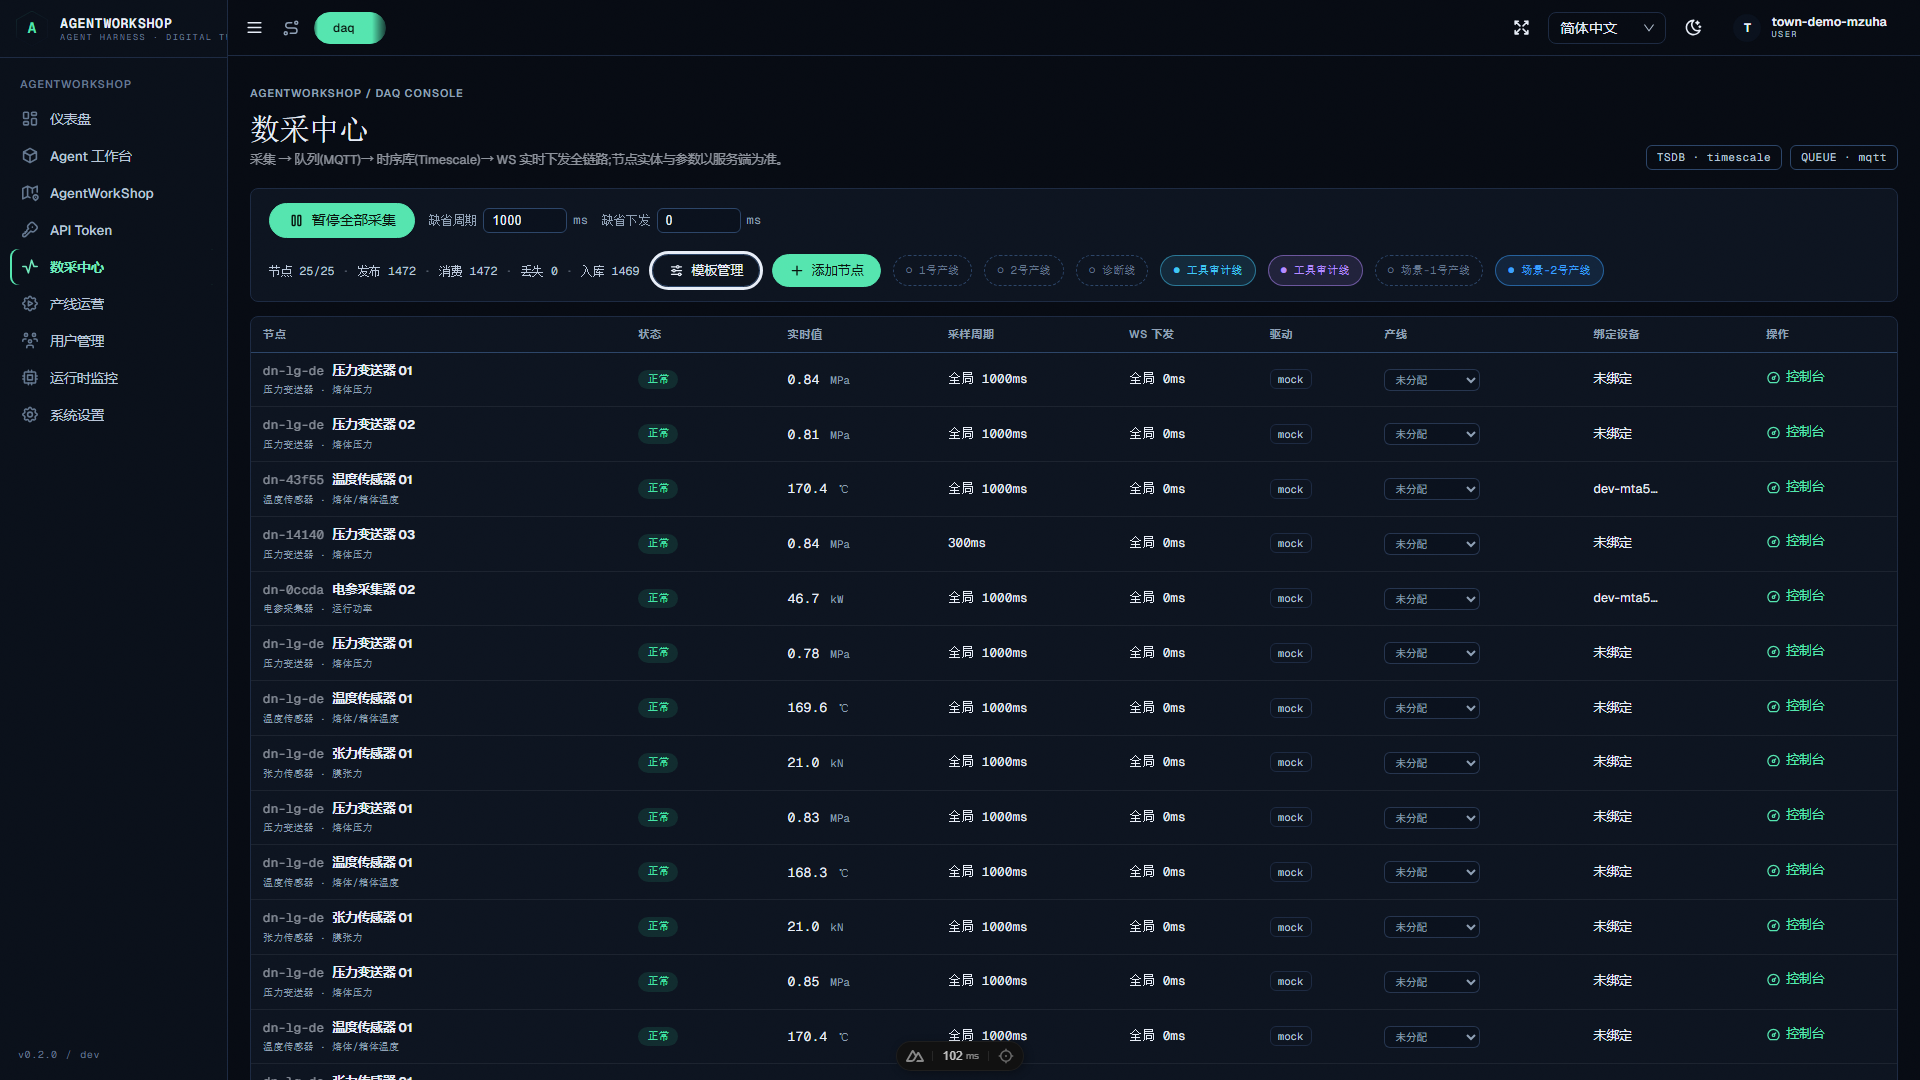
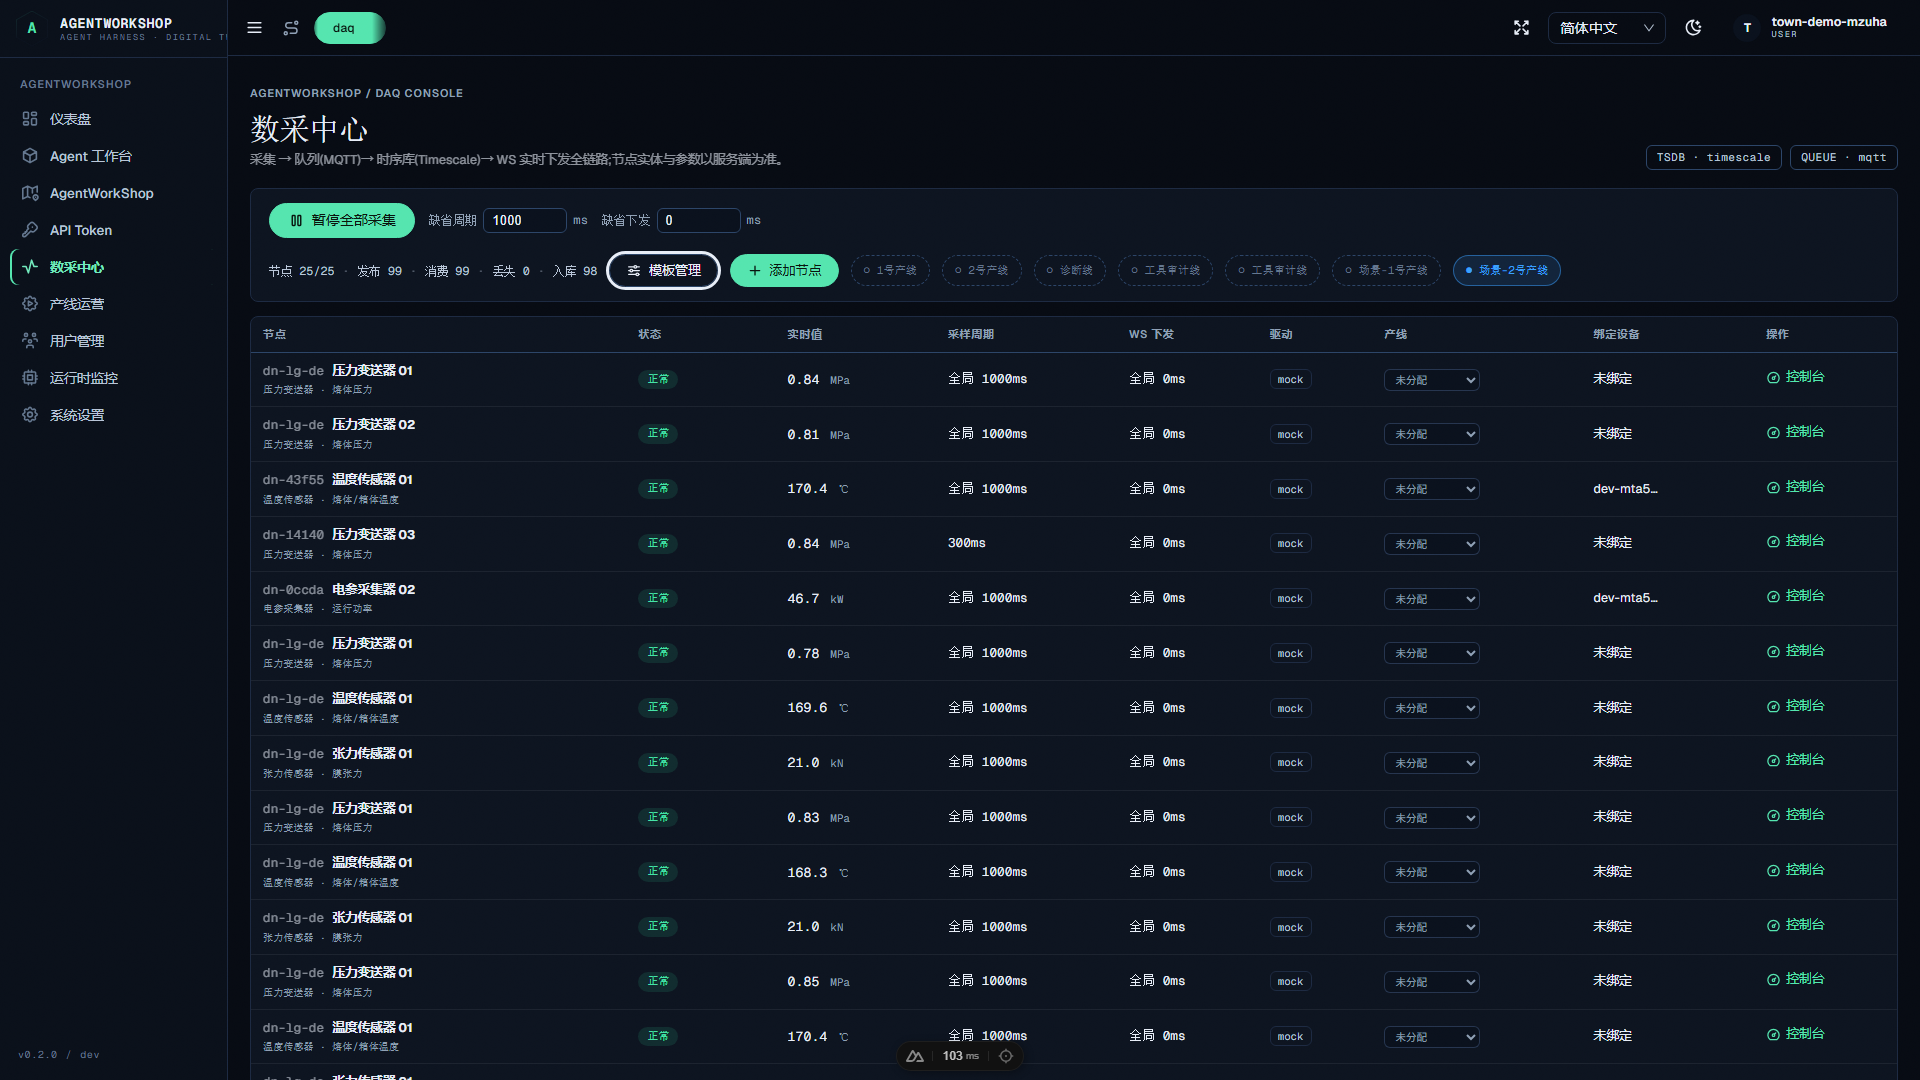
fix(agent): 工业工具权限与 HITL 加固 —— 多节点授权/级联清理/审批生命周期
- 一 Agent 绑多节点为一级语义:my_industrial_nodes 按多节点清单输出,
  失效绑定(节点已删)调用时自动清理
- 权限生命周期闭环:数控/数采节点删除级联清理绑定(daq/dcw
  controller.remove);解绑即失效 —— 挂起中的手动审批按拒绝收敛
  (备注注明原因),批准二次校验绑定仍有效(防 TOCTOU 越权)
- HITL 审批去重:同 Agent 同节点 pending 期间拒绝新挂起,防审批堆积
- daq_query 越权提示仅列有权节点;停线下发走全局量程 + 语义提示
- RPC client 确认 host_tool_call fire-and-forget(omp 并发多工具
  调用天然并行,manual 审批挂起不阻塞其他工具)
- 新增 _dbg-agent-workflow-audit:双 Agent 分工(操作员/质检员)
  × 5 节点,17 项断言(越权矩阵/HITL 并发与拒绝/解绑失效/级联清理/
  停线语义)ALL PASS

Changed region(s): [[0.2188, 0.2139, 0.8438, 0.275]]

diff --git a/server/services/workshop/agents/industrial-tools.ts b/server/services/workshop/agents/industrial-tools.ts
@@ -47,20 +47,29 @@ function describeDaqNode(nodeId: string, mode: string): string | null {
 
 /** 工具:my_industrial_nodes —— 列出 Agent 持有的节点与物理意义/规则 */
 export async function toolMyIndustrialNodes(agentId: string): Promise<{ text: string }> {
-  const bindings = getAgentNodeBindingRepo().byAgent(agentId)
+  const repo = getAgentNodeBindingRepo()
+  const bindings = repo.byAgent(agentId)
   if (bindings.length === 0) {
     return { text: '你尚未绑定任何工业节点。请在数字孪生界面的 Agent 详情面板中绑定数控/数采节点后再调用工业工具。' }
   }
-  const lines = bindings
-    .map(b => b.kind === 'dcw' ? describeDcwNode(b.nodeId, b.mode) : describeDaqNode(b.nodeId, b.mode))
-    .filter((s): s is string => !!s)
+  const lines: string[] = []
+  let staleCount = 0
+  for (const b of bindings) {
+    const d = b.kind === 'dcw' ? describeDcwNode(b.nodeId, b.mode) : describeDaqNode(b.nodeId, b.mode)
+    if (d) lines.push(d)
+    else {
+      staleCount++
+      repo.removeAgentNode(agentId, b.nodeId, b.kind) // 节点已删除 → 绑定失效,自清理
+    }
+  }
   if (lines.length === 0) return { text: '绑定的节点均已不存在(可能被删除),请重新绑定。' }
+  const staleNote = staleCount > 0 ? `\n(另有 ${staleCount} 条失效绑定已自动清理)` : ''
   return {
-    text: `你持有 ${lines.length} 个工业节点绑定:\n${lines.join('\n')}\n\n规则:数控下发用 dcw_control(node_id, value),设定值不得越出安全量程与活动配方工艺窗口(越窗将被联锁拒绝);数据查询用 daq_query,可按产线/产品/配方/时间/节点检索。下发前请确认物理含义与窗口。`,
+    text: `你持有 ${lines.length} 个工业节点绑定:\n${lines.join('\n')}${staleNote}\n\n规则:一个 Agent 可绑定多个节点;数控下发用 dcw_control(node_id, value),设定值不得越出安全量程与活动配方工艺窗口(越窗将被联锁拒绝);数据查询用 daq_query(不传 node_id = 查询你全部数采节点),可按产线/产品/配方/时间检索。下发前请确认物理含义与窗口。`,
   }
 }
 
-/** 工具:dcw_control —— 数控下发(鉴权 → 手动审批 → 安全联锁 → 回读语义结果) */
+/** 工具:dcw_control —— 数控下发(鉴权 → 停线守卫 → 手动审批 → 安全联锁 → 回读语义结果) */
 export async function toolDcwControl(agentId: string, args: { node_id?: string, value?: number | string }): Promise<{ text: string, isError?: boolean }> {
   const nodeId = String(args.node_id ?? '').trim()
   const value = Number(args.value)
@@ -79,19 +88,33 @@ export async function toolDcwControl(agentId: string, args: { node_id?: string, 
     return { text: '设定值 value 必须为数字。', isError: true }
   }
   const node = getDcwController().byId(nodeId)
-  if (!node) return { text: `数控节点不存在: ${nodeId}`, isError: true }
+  if (!node) {
+    // 节点已被删除 → 绑定失效自清理,提示重新绑定
+    repo.removeAgentNode(agentId, nodeId, 'dcw')
+    return { text: `数控节点 ${nodeId} 已不存在(可能被删除),原绑定已自动清理,请重新绑定。`, isError: true }
+  }
+  // 停线守卫:产线未开跑时手动写允许(调试),但提示当前无配方窗口约束
   const tpl = findDcwTemplate(node.templateKey)
 
   // 手动确认模式:挂起等待用户批准(备注会回给 Agent)
+  // 同 Agent 同节点的挂起审批去重:防止审批面板堆积(前一条未决,拒绝新的)
   if (binding.mode === 'manual') {
+    const approvals = getToolApprovals()
+    if (approvals.hasPendingFor(agentId, nodeId)) {
+      return { text: `你对该节点已有一条待审批的下发指令,请等待用户处理后再发新指令(避免审批堆积)。`, isError: true }
+    }
     const run = node.lineId ? getActiveLineRun(node.lineId) : null
     const recipe = run ? getDcwController().listRecipes().find(r => r.id === run.recipeId) : undefined
     const param = recipe?.params.find(p => p.nodeId === nodeId)
     const detail = `${node.name}(${tpl?.ch ?? node.templateKey})设定 ${value}${node.unit}`
       + (param && (param.min != null || param.max != null) ? `,配方窗口 ${param.min ?? '-∞'}~${param.max ?? '+∞'}${node.unit}` : `,安全量程 ${node.min}~${node.max}${node.unit}`)
-    const ap = await getToolApprovals().request(agentId, nodeId, 'dcw', detail)
+    const ap = await approvals.request(agentId, nodeId, 'dcw', detail)
     if (!ap.approved) {
       return { text: `指令未执行:用户${ap.comment.includes('超时') ? '未在时限内批准(超时)' : `拒绝了本次下发`}。用户备注:${ap.comment || '(无)'}` }
+    }
+    // 审批期间节点可能被解绑/删除(权限在批准时失效):二次校验
+    if (!repo.find(agentId, nodeId, 'dcw')) {
+      return { text: '指令未执行:审批通过时你的该节点绑定已被解除(权限在批准时失效)。', isError: true }
     }
   }
 

diff --git a/server/services/workshop/agents/node-bindings.repo.ts b/server/services/workshop/agents/node-bindings.repo.ts
@@ -49,6 +49,19 @@ export class AgentNodeBindingRepo {
     return this.list.filter(b => b.agentId === agentId)
   }
 
+  /** 反查:某节点的全部绑定(节点删除时级联清理用) */
+  byNode(nodeId: string): AgentNodeBinding[] {
+    return this.list.filter(b => b.nodeId === nodeId)
+  }
+
+  /** 节点删除级联:移除该节点的全部绑定(返回删除数) */
+  removeNode(nodeId: string): number {
+    const before = this.list.length
+    this.list = this.list.filter(b => b.nodeId !== nodeId)
+    if (this.list.length !== before) this.flush()
+    return before - this.list.length
+  }
+
   find(agentId: string, nodeId: string, kind: AgentNodeBindingKind): AgentNodeBinding | undefined {
     return this.list.find(b => b.agentId === agentId && b.nodeId === nodeId && b.kind === kind)
   }
@@ -84,6 +97,22 @@ export class AgentNodeBindingRepo {
     b.mode = mode
     this.flush()
     return b
+  }
+
+  /** 三元组精确删除(工具侧失效绑定自清理) */
+  removeAgentNode(agentId: string, nodeId: string, kind: AgentNodeBindingKind): boolean {
+    const before = this.list.length
+    this.list = this.list.filter(b => !(b.agentId === agentId && b.nodeId === nodeId && b.kind === kind))
+    if (this.list.length !== before) this.flush()
+    return this.list.length !== before
+  }
+
+  /** 按节点+类型解绑(工具侧便捷入口) */
+  unbindNode(agentId: string, nodeId: string, kind: AgentNodeBindingKind): boolean {
+    const before = this.list.length
+    this.list = this.list.filter(b => !(b.agentId === agentId && b.nodeId === nodeId && b.kind === kind))
+    if (this.list.length !== before) this.flush()
+    return this.list.length !== before
   }
 
   unbind(id: string): boolean {

diff --git a/server/services/workshop/agents/tool-approvals.ts b/server/services/workshop/agents/tool-approvals.ts
@@ -80,6 +80,31 @@ class ToolApprovalService {
       .filter(a => !agentId || a.agentId === agentId)
   }
 
+  /** 解绑/换线时取消挂起审批:该 Agent 对某节点的全部 pending 按拒绝收敛(备注说明原因) */
+  cancelPendingFor(agentId: string, nodeId: string): number {
+    let n = 0
+    for (const [id, entry] of [...this.pending.entries()]) {
+      if (entry.approval.agentId !== agentId || entry.approval.nodeId !== nodeId) continue
+      clearTimeout(entry.timer)
+      this.pending.delete(id)
+      entry.approval.status = 'denied'
+      entry.approval.comment = '绑定已解除,审批失效'
+      entry.approval.decidedAt = new Date().toISOString()
+      this.remember(entry.approval)
+      entry.resolve({ approved: false, comment: entry.approval.comment, id })
+      n++
+    }
+    return n
+  }
+
+  /** 同一 Agent 同一节点的挂起审批去重:已有 pending 时拒绝新挂起(防审批面板堆积) */
+  hasPendingFor(agentId: string, nodeId: string): boolean {
+    for (const entry of this.pending.values()) {
+      if (entry.approval.agentId === agentId && entry.approval.nodeId === nodeId) return true
+    }
+    return false
+  }
+
   historyList(): ToolApproval[] {
     return this.history
   }

diff --git a/server/api/workshop/agent-tools/bindings/[id].delete.ts b/server/api/workshop/agent-tools/bindings/[id].delete.ts
@@ -5,10 +5,17 @@ import { createError, getRouterParam } from 'h3'
 import { resolveUser } from '@/server/api/workshop/caller'
 import { defineApiHandler } from '@/server/utils/response'
 import { getAgentNodeBindingRepo } from '@/server/services/workshop/agents/node-bindings.repo'
+import { getToolApprovals } from '@/server/services/workshop/agents/tool-approvals'
 
 export default defineApiHandler(async (event) => {
   resolveUser(event)
   const id = getRouterParam(event, 'id')!
-  if (!getAgentNodeBindingRepo().unbind(id)) throw createError({ statusCode: 404, statusMessage: 'binding not found' })
+  const repo = getAgentNodeBindingRepo()
+  const all = repo.all()
+  const binding = all.find(b => b.id === id)
+  if (!binding) throw createError({ statusCode: 404, statusMessage: 'binding not found' })
+  if (!repo.unbind(id)) throw createError({ statusCode: 404, statusMessage: 'binding not found' })
+  // 解绑即失效:该 Agent 对该节点的挂起审批按拒绝收敛(tool result 注明原因)
+  getToolApprovals().cancelPendingFor(binding.agentId, binding.nodeId)
   return { ok: true }
 })

diff --git a/server/services/workshop/dcw/dcw-controller.ts b/server/services/workshop/dcw/dcw-controller.ts
@@ -303,6 +303,16 @@ class DcwController {
     if (!node) throw new AppError(404, ErrorCodes.NOT_FOUND, `控制节点不存在: ${id}`)
     this.repo.remove(id)
     this.runtimes.delete(id)
+    // 级联清理:该节点的 Agent 绑定移除,挂起中的手动审批按失效收敛
+    void import('../agents/node-bindings.repo').then(({ getAgentNodeBindingRepo }) => {
+      const repo = getAgentNodeBindingRepo()
+      for (const b of repo.byNode(id)) {
+        void import('../agents/tool-approvals').then(({ getToolApprovals }) => {
+          getToolApprovals().cancelPendingFor(b.agentId, id)
+        }).catch(() => {})
+        repo.removeAgentNode(b.agentId, id, 'dcw')
+      }
+    }).catch(() => {})
     this.emitNodeChanged('removed', node)
   }
 

diff --git a/server/services/workshop/daq/daq-controller.ts b/server/services/workshop/daq/daq-controller.ts
@@ -566,6 +566,10 @@ class DaqController {
     if (!node) throw Object.assign(new Error(`数采节点不存在: ${id}`), { status: 404 })
     this.repo.remove(id)
     this.runtimes.delete(id) // 运行时随节点注销
+    // 级联清理:该节点的 Agent 绑定移除
+    void import('../agents/node-bindings.repo').then(({ getAgentNodeBindingRepo }) => {
+      getAgentNodeBindingRepo().removeNode(id)
+    }).catch(() => {})
     this.emitNodeChanged('removed', node)
   }
 
